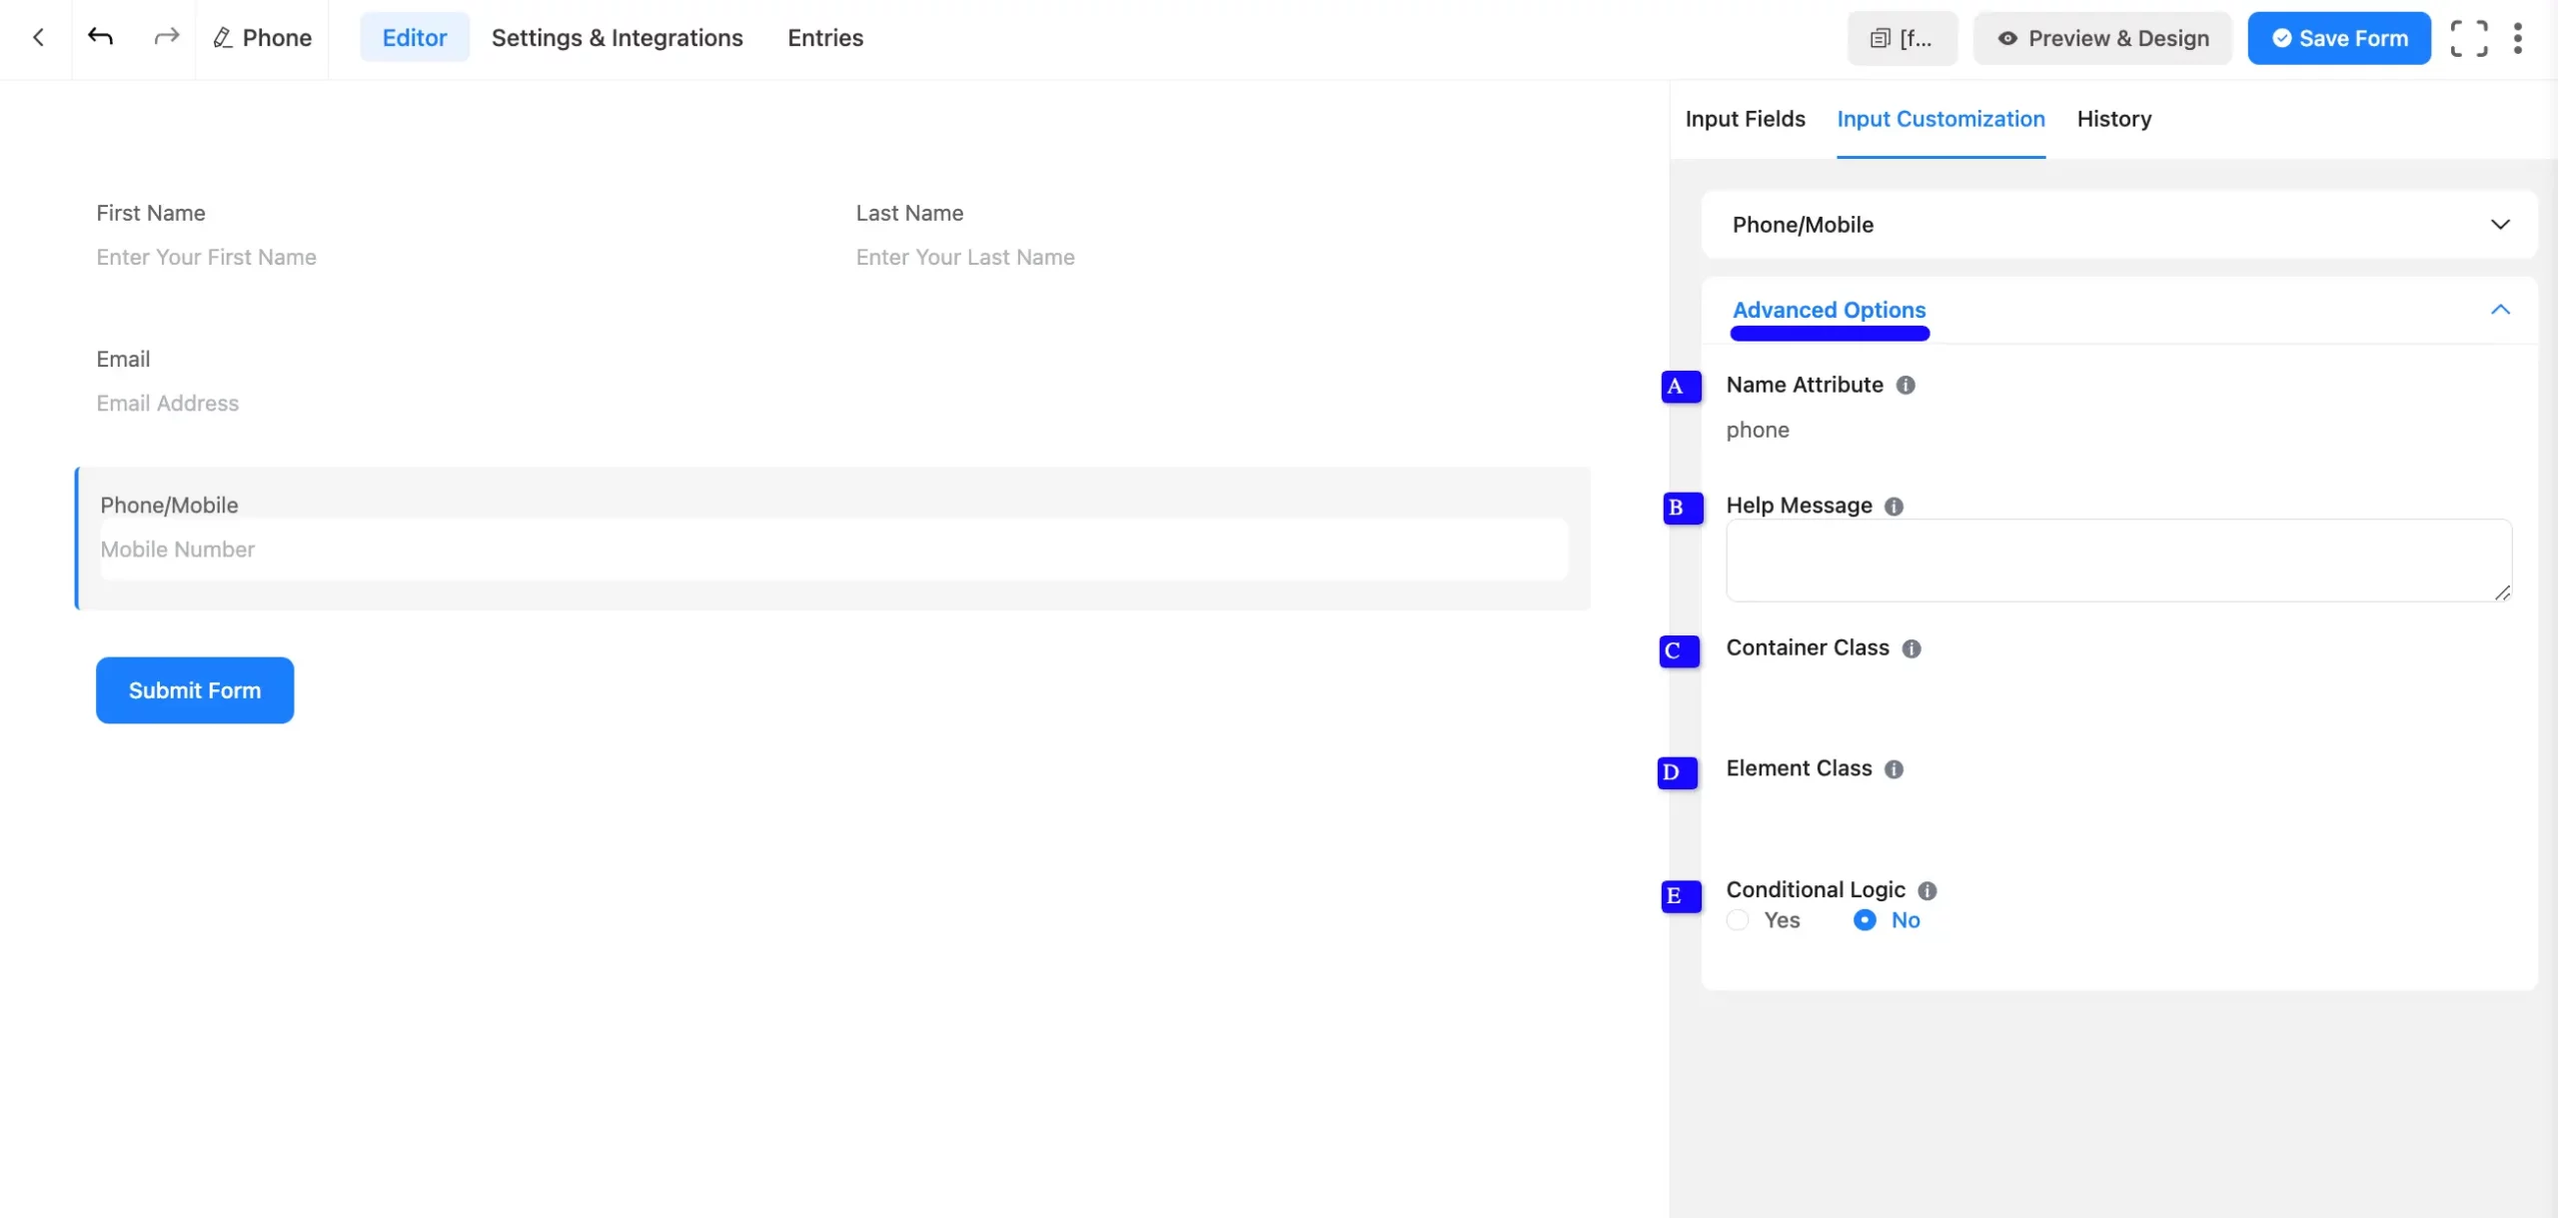
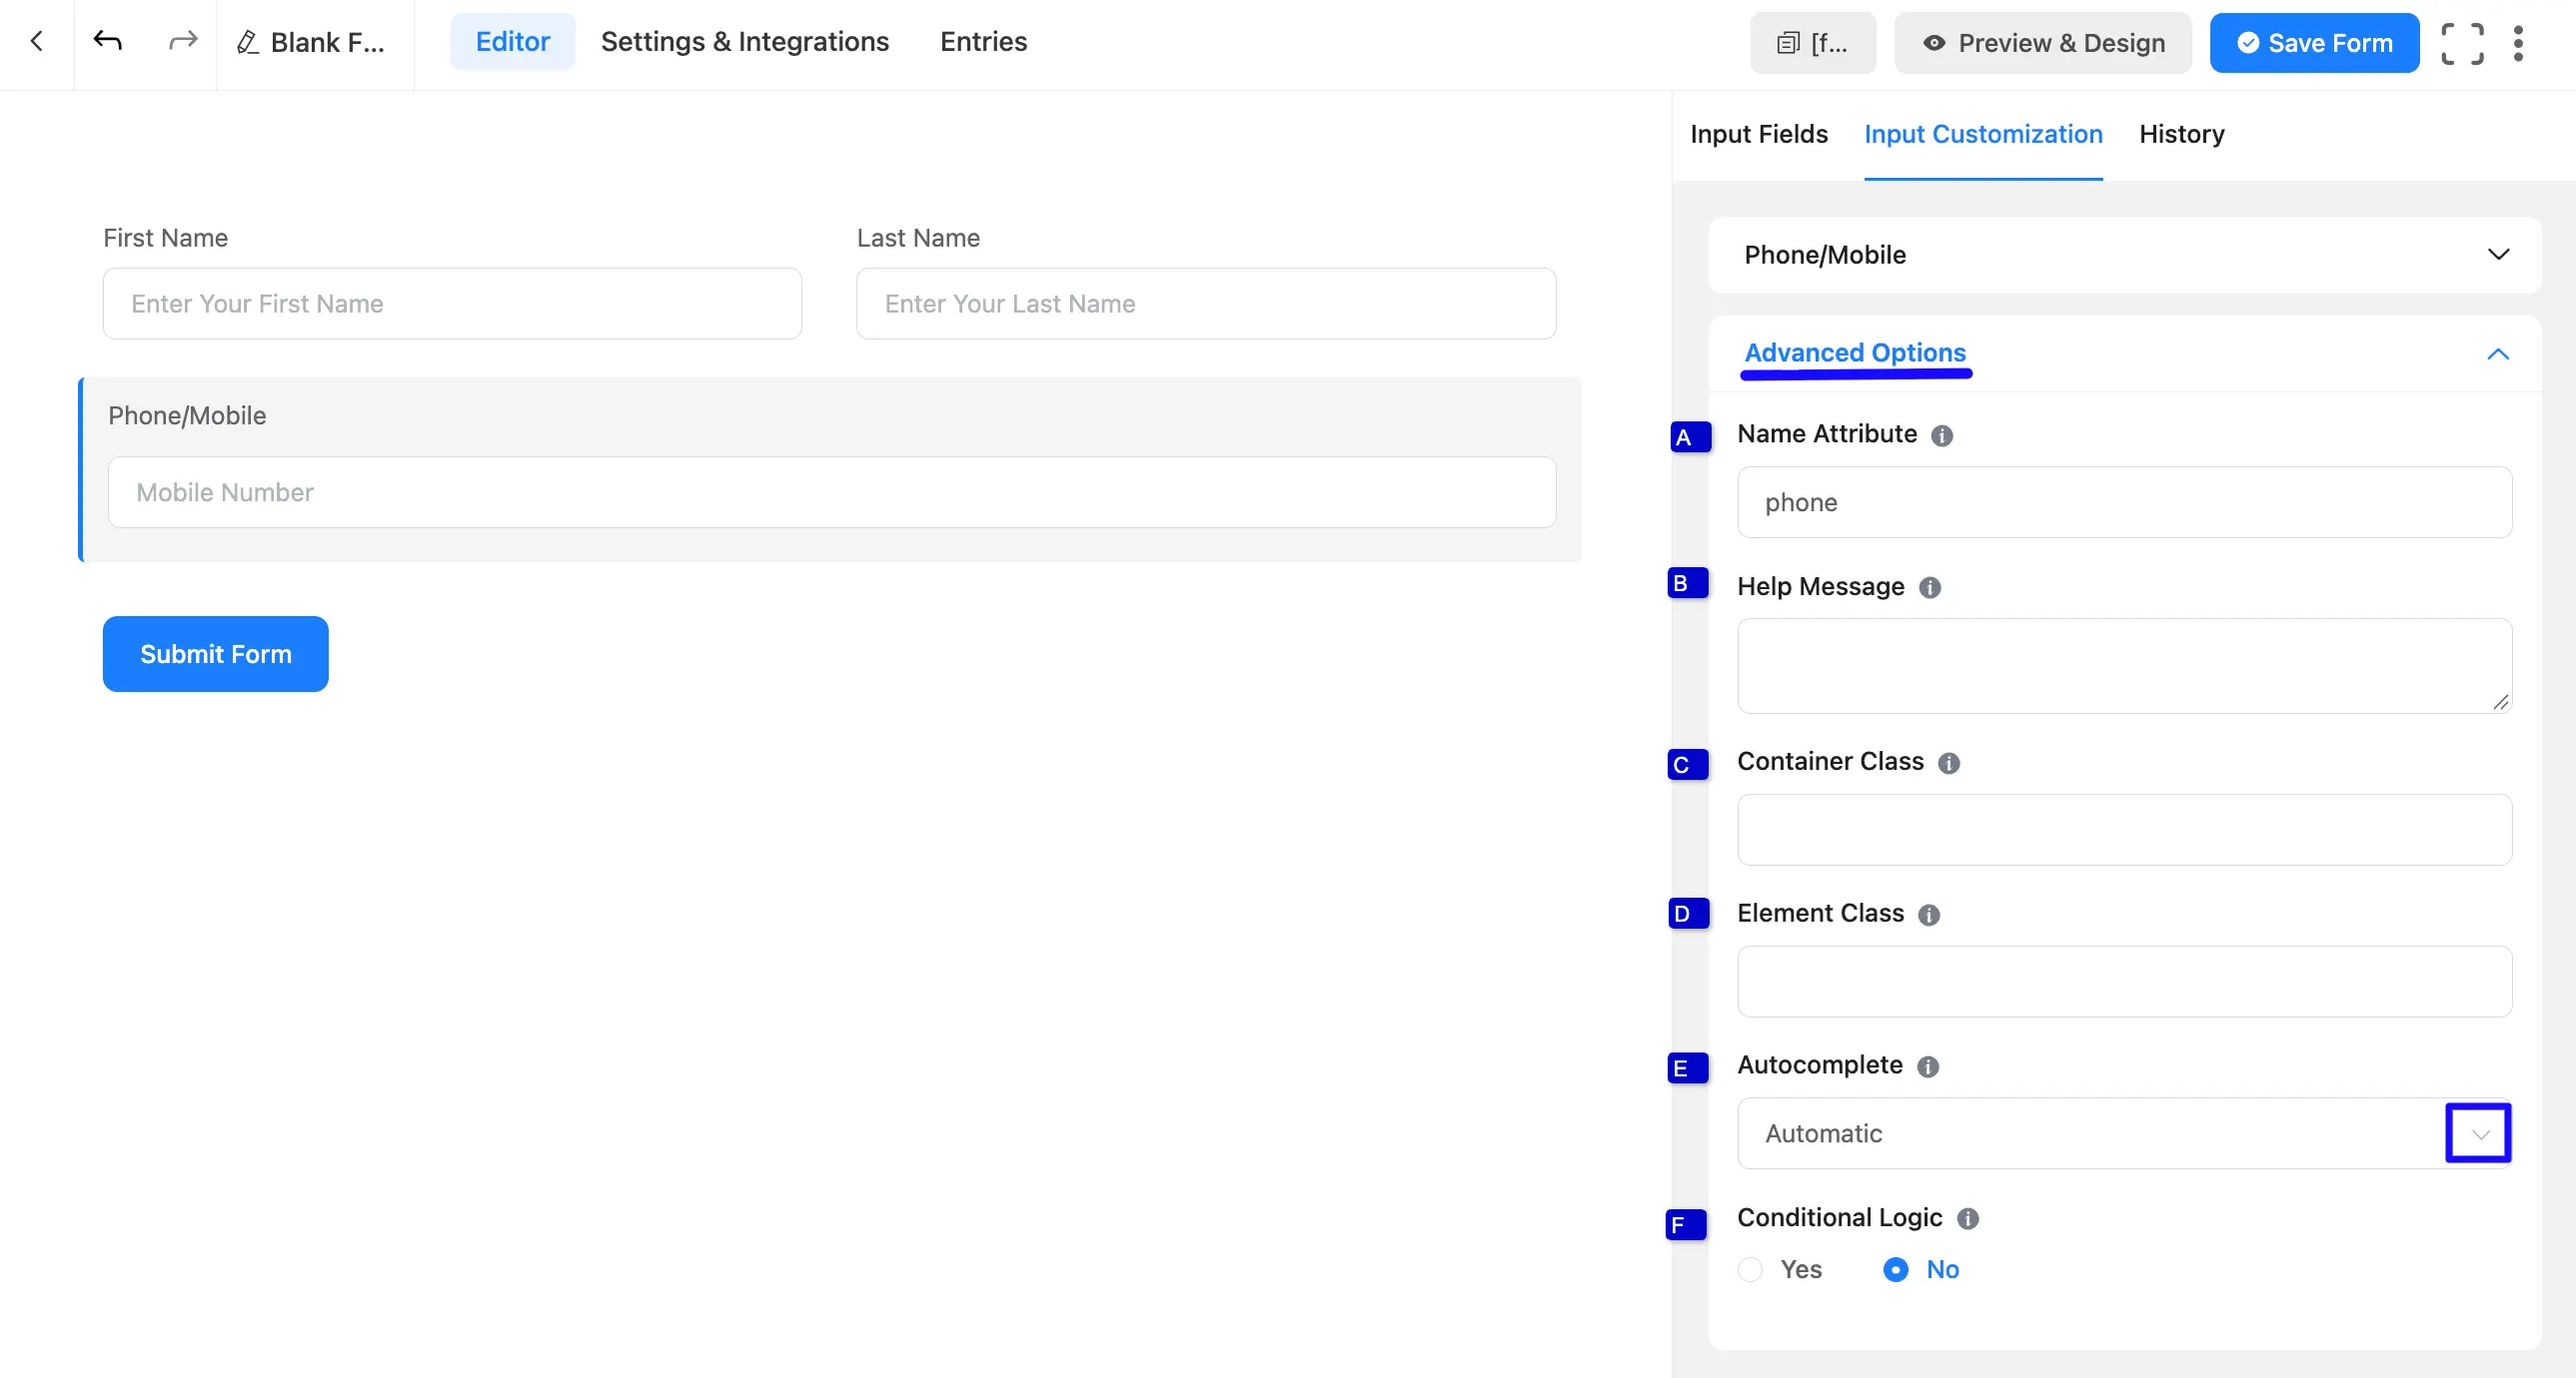
description and image add phonemobile input field

diff --git a/docs/form-fields/general-fields/phonemobile-input-field.md b/docs/form-fields/general-fields/phonemobile-input-field.md
@@ -79,15 +79,17 @@ You can select **Yes** to notify a user that he needs to add a Valid Phone Numbe
 
 Advanced settings allow further customization to meet specific use cases.
 
-**A. Name Attribute:** The input field’s name attribute is the HTML equivalent of the same name. You don’t need to modify this.
+**A. Autocomplete:** (Pro) Choose a value that tells the browser this field collects a phone number, so it can offer saved details. Options are **Automatic**, **off**, **None**, or a specific value. To learn more, read [Autocomplete for Form Fields](/autocomplete-for-form-fields).
 
-**B. Help Message:** This option allows you to guide your user thoroughly. Add your text here, which will be shown as a help message to the user.
+**B. Name Attribute:** The input field’s name attribute is the HTML equivalent of the same name. You don’t need to modify this.
 
-**C. Container Class:** Use this option to add your custom CSS classes to the field's wrapper.
+**C. Help Message:** This option allows you to guide your user thoroughly. Add your text here, which will be shown as a help message to the user.
 
-**D. Element Class:** Add custom CSS classes to the input field.
+**D. Container Class:** Use this option to add your custom CSS classes to the field's wrapper.
 
-**E. Conditional Logic:** This option allows you to create specific rules to dynamically hide/show the input field to function conditionally based on your submission values according to your set of conditional logics. To learn more, read [Set up Forms with Conditional Logic in Fluent Forms](/set-up-forms-with-conditional-logic). 
+**E. Element Class:** Add custom CSS classes to the input field.
+
+**F. Conditional Logic:** This option allows you to create specific rules to dynamically hide/show the input field to function conditionally based on your submission values according to your set of conditional logics. To learn more, read [Set up Forms with Conditional Logic in Fluent Forms](/set-up-forms-with-conditional-logic). 
 
 ![Advanced Options](/images/form-fields/general-fields/phonemobile-input-field/Advanced-options-05-2-scaled.webp)
 
